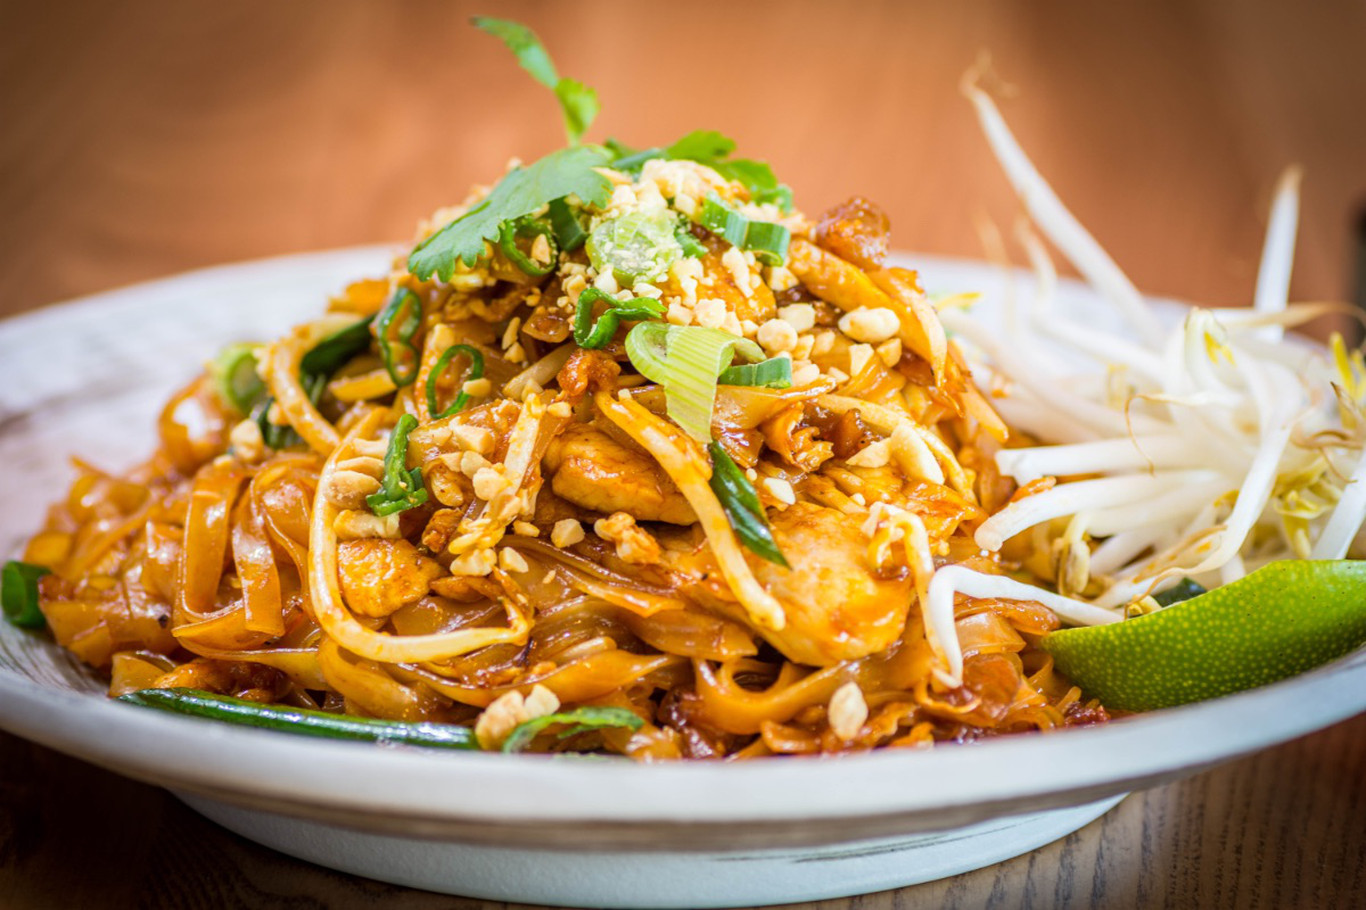
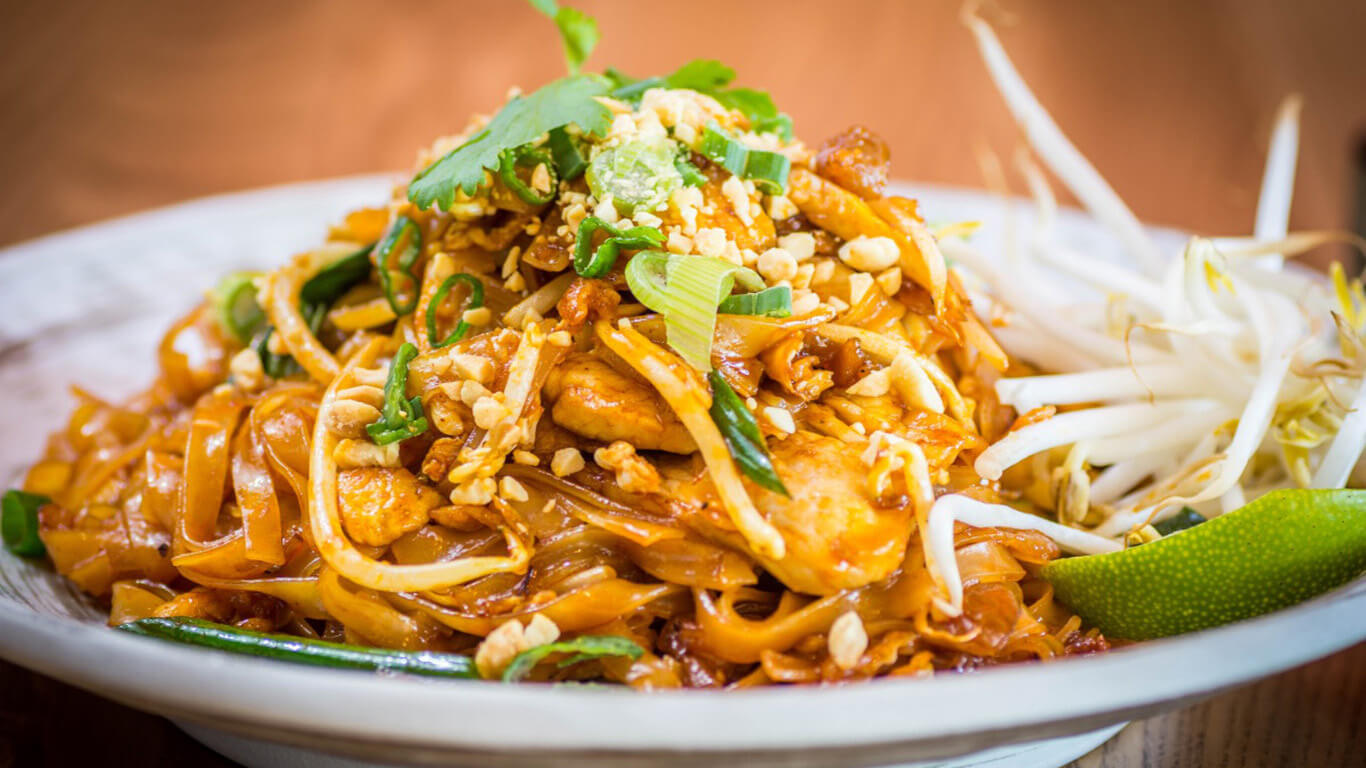
fix block

diff --git a/index.html b/index.html
@@ -61,7 +61,7 @@
         <div id="carouselExample" class="carousel slide">
             <div class="carousel-inner">
                 <div class="carousel-item active">
-                    <img src="images/Food1 copy.jpg.jpg" class="d-block w-100" alt="...">
+                    <img src="images/Slide1.png" class="d-block w-100" alt="...">
                 </div>
                 <div class="carousel-item">
                     <img src="images/Food2.jpg" class="d-block w-100" alt="...">
@@ -81,11 +81,56 @@
         </div>
     </div>
     <!--END HERO SLIDER-->
+    <!--START CARDS-->
+    <style>
+        .col-2,
+        .col-sm-18,
+        .col-md-12,
+        .col-lg-4 {
+            border: red 1px solid
+        }
+    </style>
 
-    <!--DO NOT EDIT BELOW-->
-    <script src="https://cdn.jsdelivr.net/npm/bootstrap@5.3.3/dist/js/bootstrap.bundle.min.js"
-        integrity="sha384-YvpcrYf0tY3lHB60NNkmXc5s9fDVZLESaAA55NDzOxhy9GkcIdslK1eN7N6jIeHz"
-        crossorigin="anonymous"></script>
+    <div class="container">
+        <div class="row">
+            <div class="col-sm-18 col-md-12 col-lg-4">BLOCK 1
+                <div class="card" style="width: 18rem;">
+                    <img src="..." class="card-img-top" alt="...">
+                    <div class="card-body">
+                        <p class="card-text">Some quick example text to build on the card title and make up the bulk of
+                            the
+                            card's
+                            content.</p>
+
+                        <div class="col-sm-18 col-md-12 col-lg-4">BLOCK 2</div>
+                        <div class="card" style="width: 18rem;">
+                            <img src="..." class="card-img-top" alt="...">
+                            <div class="card-body">
+                                <p class="card-text">Some quick example text to build on the card title and make up the
+                                    bulk of the card's
+                                    content.</p>
+
+
+                                <div class="col-sm-18 col-md-12 col-lg-4">BLOCK 3
+                                    <div class="card" style="width: 18rem;">
+                                        <img src="..." class="card-img-top" alt="...">
+                                        <div class="card-body">
+                                            <p class="card-text">Some quick example text to build on the card title and
+                                                make up
+                                                the bulk of the card's
+                                                content.</p>
+                                        </div>
+                                    </div>
+                                </div>
+
+                            </div>
+                        </div>
+                    </div>
+                    <!--END CARDS-->
+                    <!--DO NOT EDIT BELOW-->
+                    <script src="https://cdn.jsdelivr.net/npm/bootstrap@5.3.3/dist/js/bootstrap.bundle.min.js"
+                        integrity="sha384-YvpcrYf0tY3lHB60NNkmXc5s9fDVZLESaAA55NDzOxhy9GkcIdslK1eN7N6jIeHz"
+                        crossorigin="anonymous"></script>
 </body>
 
 
